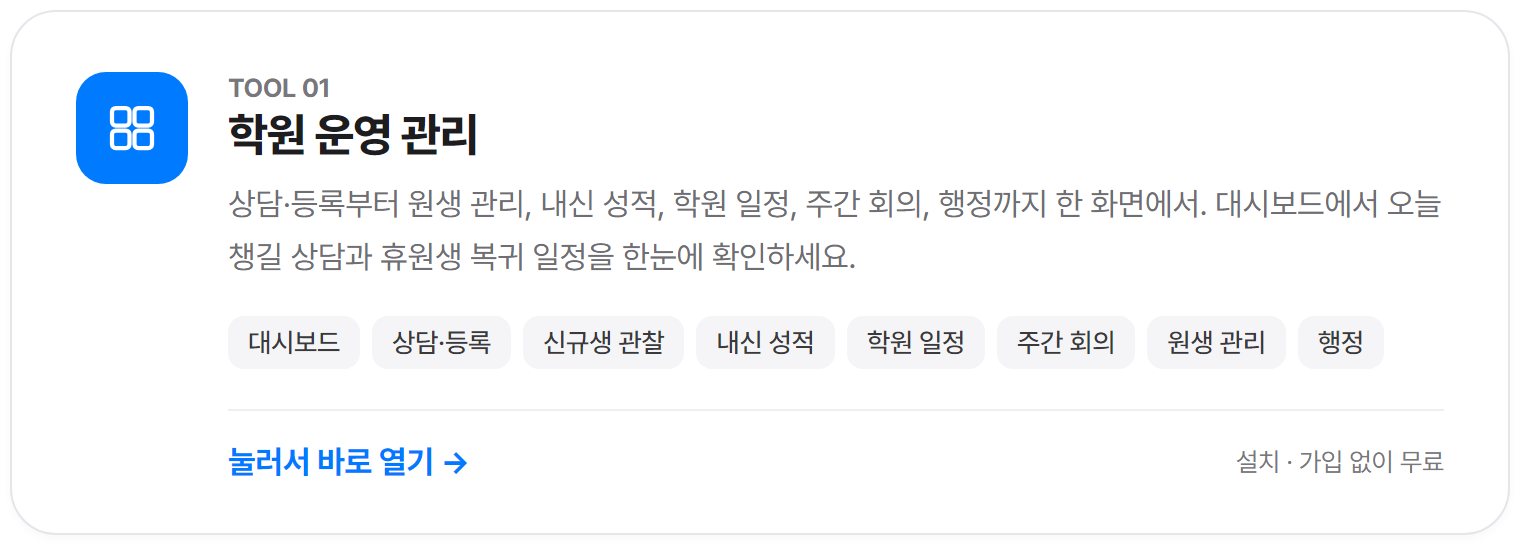
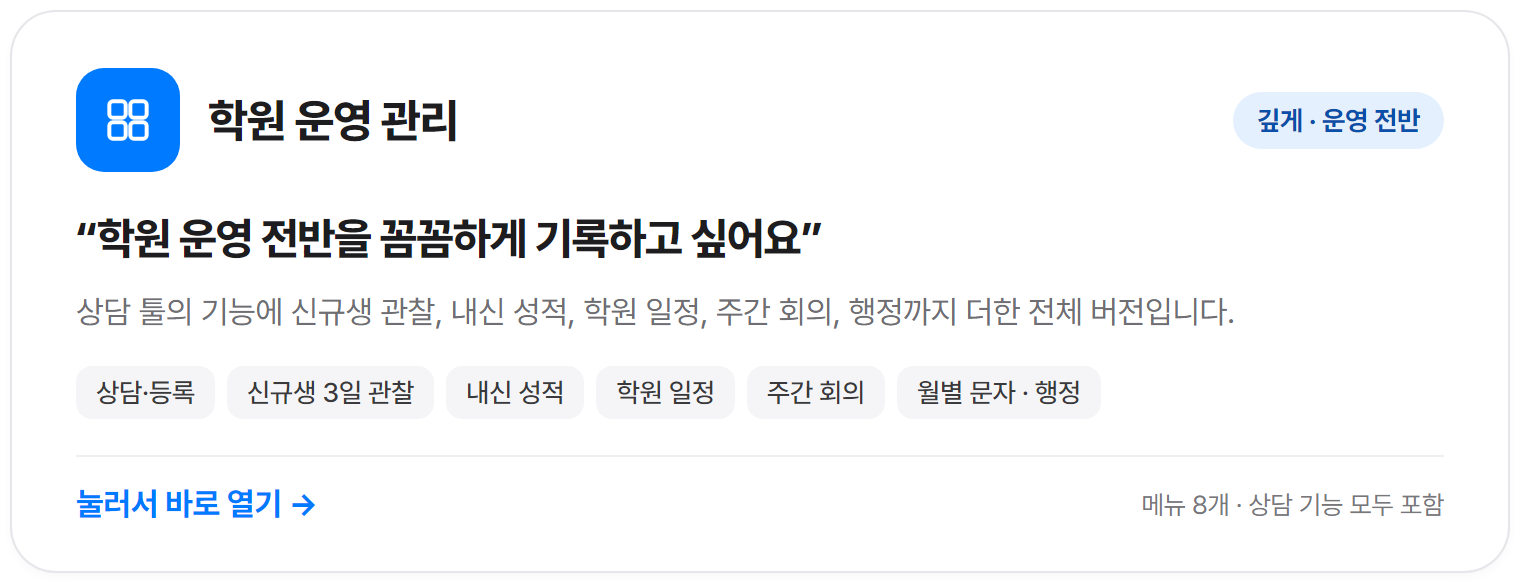
academy-tools: 3종 대상·역할 구분(상담 특화 / 운영 전반 / 학습일지) 안내 반영

diff --git a/academy-tools/index.html b/academy-tools/index.html
@@ -33,6 +33,12 @@ h1 { margin-top: 8px; font-size: 34px; line-height: 44px; font-weight: 700; lett
   transition: background-color .15s ease, transform .2s var(--ease-out); }
 .tool:hover { background: #ececf0; }
 .tool:active { transform: scale(.985); }
+.top { display: flex; align-items: center; justify-content: space-between; gap: 10px; }
+.level { height: 26px; padding: 0 10px; border-radius: 999px; display: inline-flex; align-items: center; font-size: 12.5px; font-weight: 700; white-space: nowrap; }
+.want { margin-top: 4px; color: var(--text) !important; font-size: 20px !important; line-height: 28px !important; font-weight: 700; letter-spacing: -0.025em; }
+.tool .meta { margin-top: -2px; font-size: 13px; color: var(--faint); }
+.pick { margin-top: 16px; padding: 14px 18px; border-radius: 12px; background: #fbf8ec; color: #6f4f0c; font-size: 14.5px; line-height: 23px; }
+.pick b:first-child { margin-right: 8px; }
 .mark { width: 40px; height: 40px; border-radius: 10px; display: grid; place-items: center; }
 .mark svg { width: 22px; height: 22px; fill: none; stroke: #fff; stroke-width: 1.7; stroke-linecap: round; stroke-linejoin: round; }
 .tool h2 { font-size: 19px; line-height: 26px; font-weight: 700; letter-spacing: -0.02em; }
@@ -71,43 +77,51 @@ h1 { margin-top: 8px; font-size: 34px; line-height: 44px; font-weight: 700; lett
 <main class="sheet">
   <p class="eyebrow">매쓰홀릭 프리미엄 자료실</p>
   <h1>원장님을 위한 학원 운영 도구</h1>
-  <p class="lede">설치나 가입 없이 바로 여는 학원 관리 프로그램 3종입니다. 필요한 도구를 열어 우리 학원에 맞게 써 보세요.</p>
+  <p class="lede">설치나 가입 없이 바로 여는 학원 관리 프로그램 3종입니다. 원장님이 하고 싶은 일에 맞는 도구 하나를 골라 시작하세요.</p>
 
   <section class="tools">
-    <a class="tool" href="operation/">
-      <span class="mark" style="background:#007aff"><svg viewBox="0 0 24 24"><rect x="4" y="4" width="7" height="7" rx="1.5"/><rect x="13" y="4" width="7" height="7" rx="1.5"/><rect x="4" y="13" width="7" height="7" rx="1.5"/><rect x="13" y="13" width="7" height="7" rx="1.5"/></svg></span>
-      <h2>학원 운영 관리</h2>
-      <p>상담부터 행정까지, 학원 운영을 한 화면에서 챙깁니다.</p>
-      <ul class="feat">
-        <li>상담·등록 단계 관리와 신규생 3일 관찰</li>
-        <li>내신 성적, 학원 일정, 주간 회의록</li>
-        <li>월별 문자 일정과 행정 매뉴얼</li>
-      </ul>
-      <span class="go">열기</span>
-    </a>
     <a class="tool" href="students/">
-      <span class="mark" style="background:#5e5ce6"><svg viewBox="0 0 24 24"><circle cx="9" cy="8.5" r="3.2"/><path d="M3.5 19c.6-3.2 2.8-5 5.5-5s4.9 1.8 5.5 5"/><path d="M15.5 6.2a3 3 0 0 1 0 5.6M17.5 14.4c1.6.6 2.6 2.2 3 4.6"/></svg></span>
+      <div class="top"><span class="mark" style="background:#5e5ce6"><svg viewBox="0 0 24 24"><circle cx="9" cy="8.5" r="3.2"/><path d="M3.5 19c.6-3.2 2.8-5 5.5-5s4.9 1.8 5.5 5"/><path d="M15.5 6.2a3 3 0 0 1 0 5.6M17.5 14.4c1.6.6 2.6 2.2 3 4.6"/></svg></span><span class="level" style="background:#efeefe;color:#4038b8">가볍게 · 상담 특화</span></div>
+      <p class="want">“상담만 가볍게<br>기록하고 싶어요”</p>
       <h2>학생 관리 · 상담</h2>
-      <p>문의부터 재원·휴원까지, 학생마다 상담 흐름을 놓치지 않게 합니다.</p>
+      <p>문의 접수부터 상담 예약, 등록까지 상담 흐름에만 집중한 가벼운 버전입니다.</p>
       <ul class="feat">
-        <li>카드를 끌어 옮기는 상담 단계 관리</li>
-        <li>마지막 상담 후 30일 지나면 '상담 필요'</li>
-        <li>휴원생 복귀 1주일 전 알림</li>
+        <li>상담 단계 칸반과 상담 예약 달력</li>
+        <li>초기상담 기록지, 월별 등록 전환율</li>
+        <li>재원생 30일 상담 알림 · 휴원생 복귀 알림</li>
       </ul>
-      <span class="go">열기</span>
+      <p class="meta">메뉴 4개 · 바로 시작</p>
+      <span class="go">상담 툴 열기</span>
+    </a>
+    <a class="tool" href="operation/">
+      <div class="top"><span class="mark" style="background:#007aff"><svg viewBox="0 0 24 24"><rect x="4" y="4" width="7" height="7" rx="1.5"/><rect x="13" y="4" width="7" height="7" rx="1.5"/><rect x="4" y="13" width="7" height="7" rx="1.5"/><rect x="13" y="13" width="7" height="7" rx="1.5"/></svg></span><span class="level" style="background:#e5f0ff;color:#0a4fa8">깊게 · 운영 전반</span></div>
+      <p class="want">“학원 운영 전반을<br>꼼꼼하게 기록하고 싶어요”</p>
+      <h2>학원 운영 관리</h2>
+      <p>상담 툴의 기능에 신규생 관찰, 내신, 일정, 회의, 행정까지 더한 전체 버전입니다.</p>
+      <ul class="feat">
+        <li>상담·등록 + 신규생 3일 관찰</li>
+        <li>내신 성적 · 학원 일정 · 주간 회의록</li>
+        <li>월별 문자 계획 · 행정 업무 매뉴얼</li>
+      </ul>
+      <p class="meta">메뉴 8개 · 상담 기능 모두 포함</p>
+      <span class="go">운영 관리 열기</span>
     </a>
     <a class="tool" href="journal/">
-      <span class="mark" style="background:#5a9a2c"><svg viewBox="0 0 24 24"><path d="M6 4h9a3 3 0 0 1 3 3v13H9a3 3 0 0 1-3-3z"/><path d="M9.5 9h5M9.5 12.5h5M9.5 16h3"/></svg></span>
+      <div class="top"><span class="mark" style="background:#5a9a2c"><svg viewBox="0 0 24 24"><path d="M6 4h9a3 3 0 0 1 3 3v13H9a3 3 0 0 1-3-3z"/><path d="M9.5 9h5M9.5 12.5h5M9.5 16h3"/></svg></span><span class="level" style="background:#e2f1d6;color:#2c5410">매일 · 매쓰홀릭 연동</span></div>
+      <p class="want">“매쓰홀릭 결과로<br>학습일지를 편하게 쓰고 싶어요”</p>
       <h2>학습일지</h2>
-      <p>매쓰홀릭 학습 결과를 붙이고, 선생님은 세 가지만 적습니다.</p>
+      <p>매쓰홀릭 학습현황 엑셀을 올리면 결과가 붙고, 선생님은 세 가지만 적으면 됩니다.</p>
       <ul class="feat">
         <li>매쓰홀릭 엑셀로 학생·반 등록과 결과 첨부</li>
         <li>지난 과제 · 오늘 메모 · 다음 계획</li>
         <li>학부모 상담용 인쇄, 엑셀 내보내기</li>
       </ul>
-      <span class="go">열기</span>
+      <p class="meta">매 수업 · 자동 저장</p>
+      <span class="go">학습일지 열기</span>
     </a>
   </section>
+
+  <p class="pick"><b>고르는 법</b> 학생 관리 · 상담과 학원 운영 관리는 <b>둘 중 하나만</b> 고르세요. 학원 운영 관리에 상담 기능이 모두 들어 있어요. 학습일지는 어느 쪽과도 함께 쓸 수 있어요.</p>
 
   <section class="safe">
     <div><h3>학생 정보는 원장님 PC에만</h3><p>입력한 내용은 외부 서버로 전송되지 않고, 지금 쓰는 컴퓨터의 브라우저에만 남습니다.</p></div>
